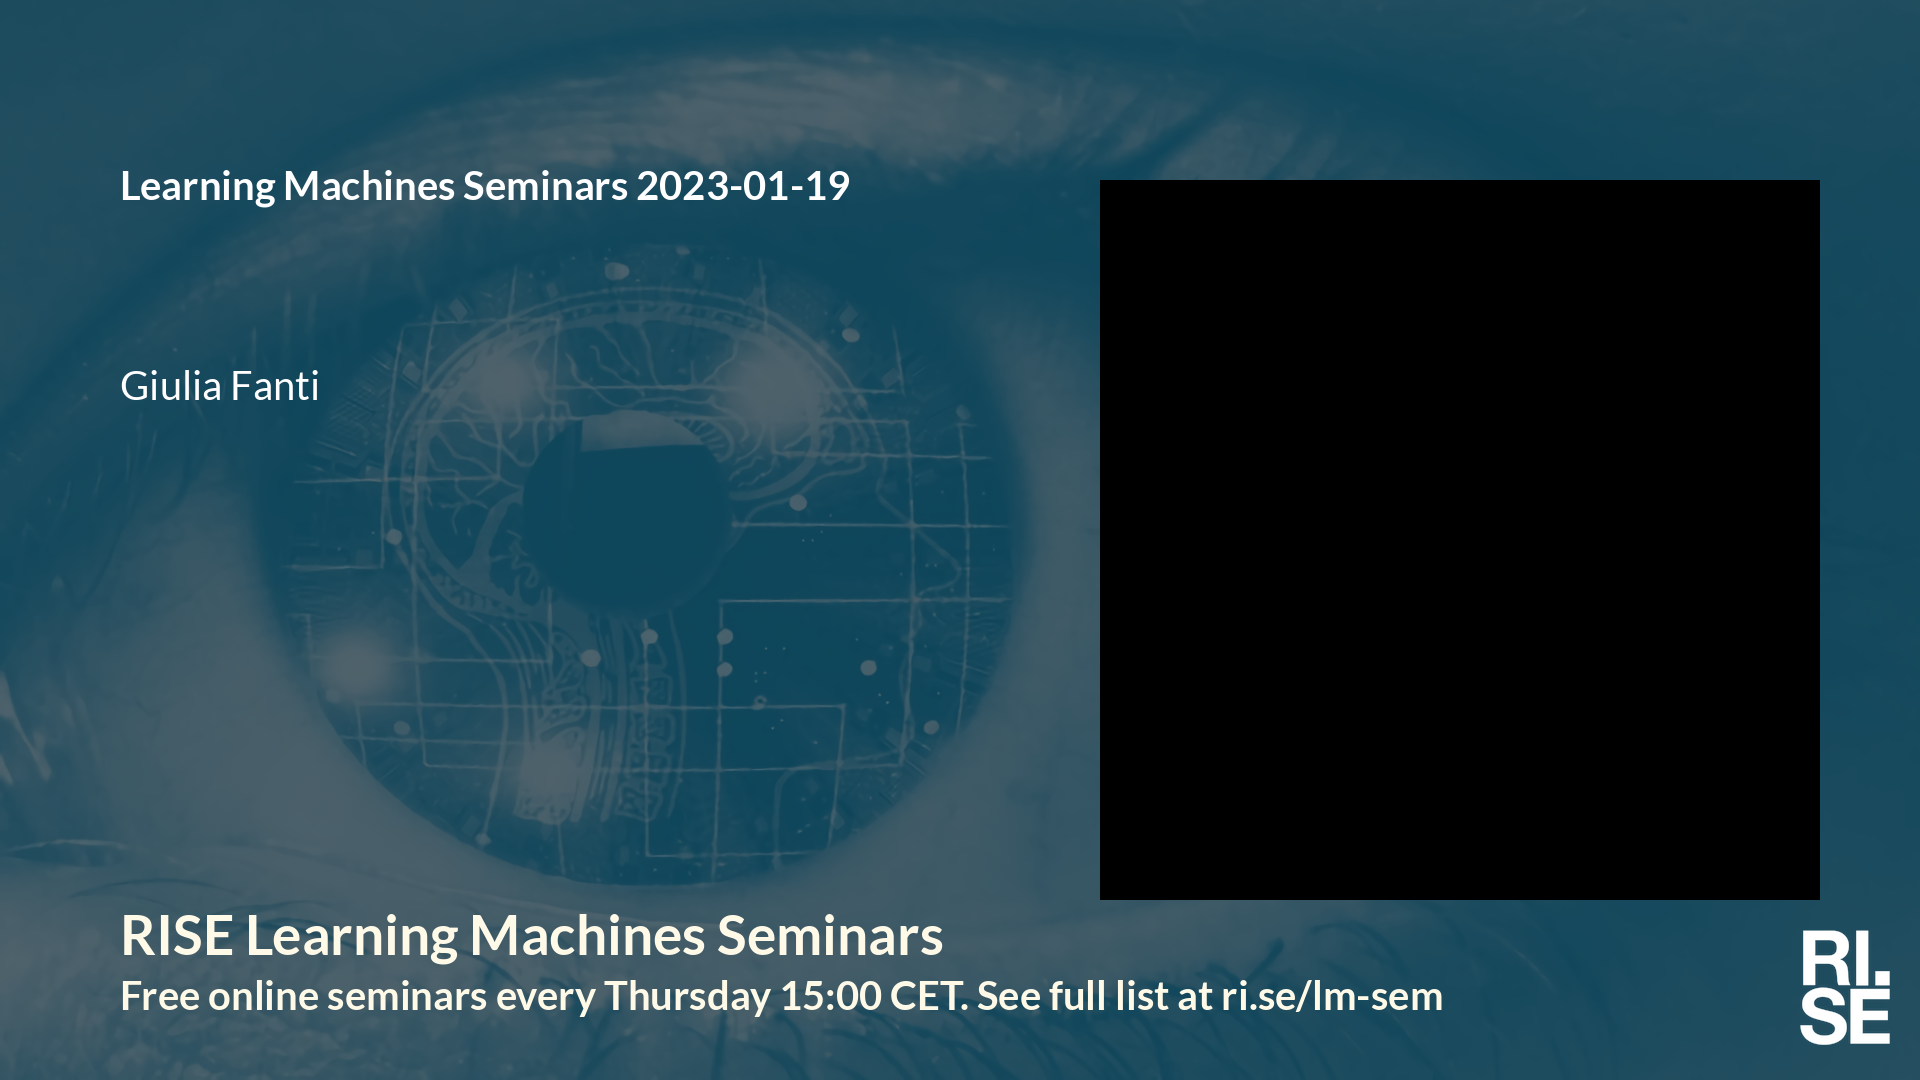
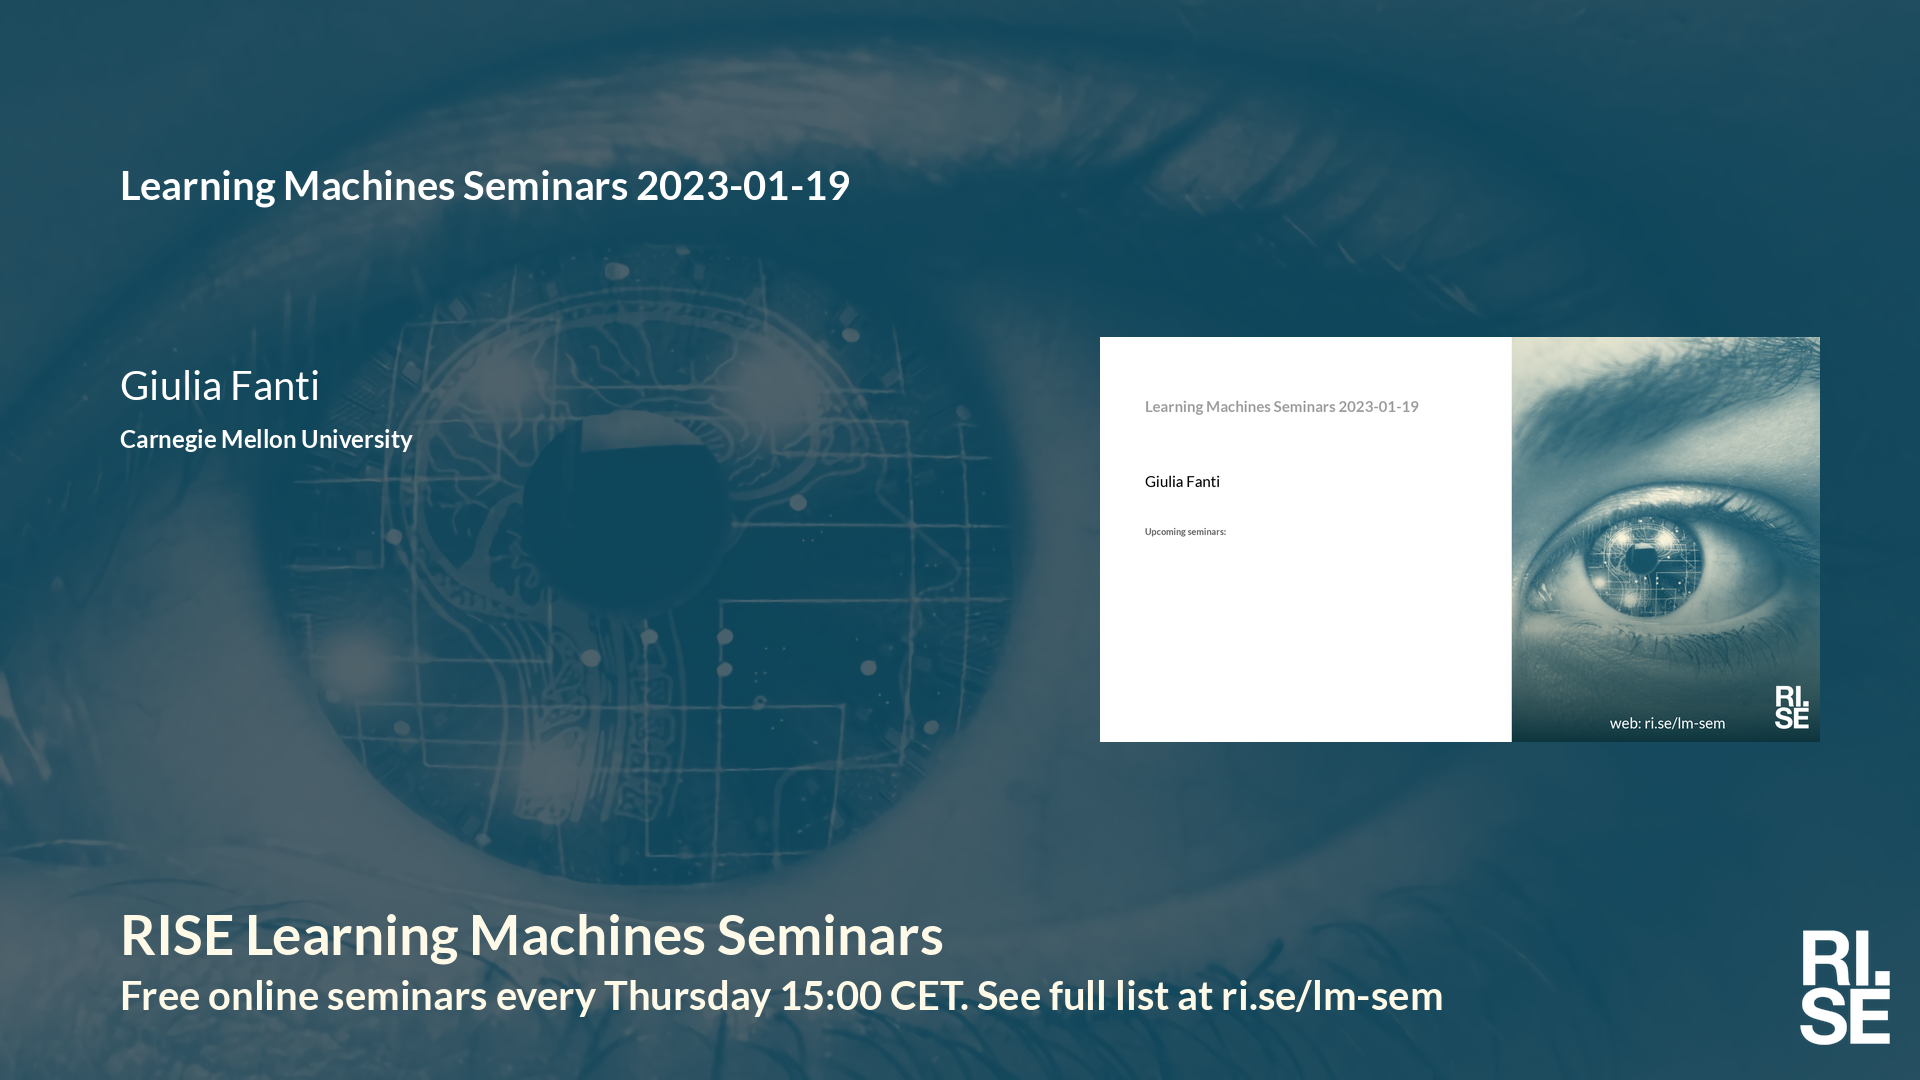
Updated plan on web site.

Changed region(s): [[0.5625, 0.1528, 0.9688, 0.8556], [0.0625, 0.3972, 0.2188, 0.4278]]

diff --git a/lm/index.md b/lm/index.md
@@ -15,7 +15,7 @@
 | <span style="color:red"> 2022-12-29 </span> | <span style="color:red"> Christmas </span> | <span style="color:red">  </span> | <span style="color:red">  </span> | <span style="color:red">  </span> | <span style="color:red">  </span> | <span style="color:red"> (cancelled) </span> |
 | <span style="color:red"> 2023-01-05 </span> | <span style="color:red"> Christmas </span> | <span style="color:red">  </span> | <span style="color:red">  </span> | <span style="color:red">  </span> | <span style="color:red">  </span> | <span style="color:red"> (cancelled) </span> |
 |  2023-01-12  |  [Mark D. Plumbley, University of Surrey](2023-01-12.md)  |  [photo](photo-mark-d.-plumbley.jpg)  |  [social media ](social-media-mark-d.-plumbley.png)  |  [meeting_backdrop ](meeting_backdrop-mark-d.-plumbley.png)  |  [youtube thumbnail ](youtube-thumbnail-mark-d.-plumbley.png)  |  (confirmed)     |
-|  2023-01-19  |  [Giulia Fanti, ](2023-01-19.md)  |    |  [social media ](social-media-giulia-fanti.png)  |  [meeting_backdrop ](meeting_backdrop-giulia-fanti.png)  |  [youtube thumbnail ](youtube-thumbnail-giulia-fanti.png)  |  (confirmed)     |
+|  2023-01-19  |  [Giulia Fanti, Carnegie Mellon University](2023-01-19.md)  |  [photo](photo-giulia-fanti.png)  |  [social media ](social-media-giulia-fanti.png)  |  [meeting_backdrop ](meeting_backdrop-giulia-fanti.png)  |  [youtube thumbnail ](youtube-thumbnail-giulia-fanti.png)  |  (confirmed)     |
 | <span style="color:purple"> 2023-01-26 </span> | <span style="color:purple"> *Up for grabs!!!* </span> | <span style="color:purple">  </span> | <span style="color:purple">  </span> | <span style="color:purple">  </span> | <span style="color:purple">  </span> | <span style="color:purple"> (not confirmed) </span> |
 | <span style="color:purple"> 2023-02-02 </span> | <span style="color:purple"> *Up for grabs!!!* </span> | <span style="color:purple">  </span> | <span style="color:purple">  </span> | <span style="color:purple">  </span> | <span style="color:purple">  </span> | <span style="color:purple"> (not confirmed) </span> |
 | <span style="color:purple"> 2023-02-09 </span> | <span style="color:purple"> *Up for grabs!!!* </span> | <span style="color:purple">  </span> | <span style="color:purple">  </span> | <span style="color:purple">  </span> | <span style="color:purple">  </span> | <span style="color:purple"> (not confirmed) </span> |
